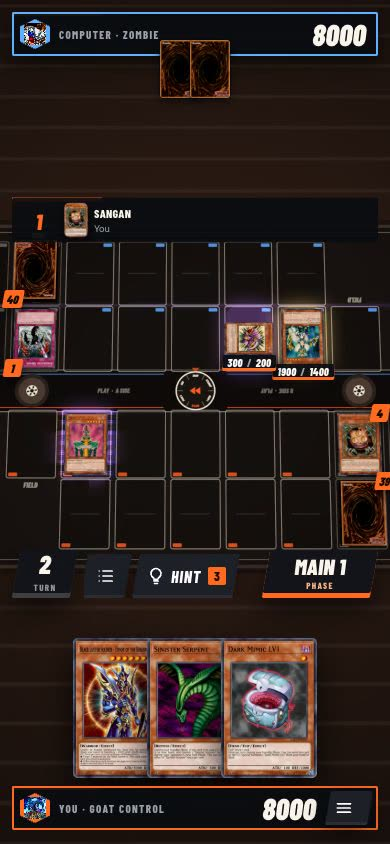
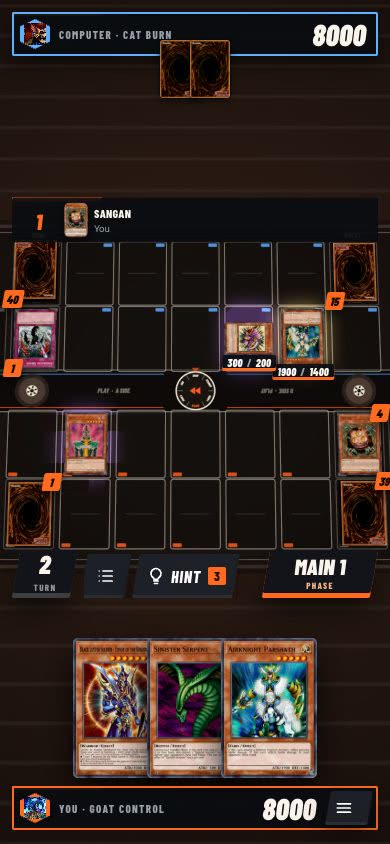
Rewind: Extra Deck under the Field zone, tapes removed

diff --git a/js/boards.js b/js/boards.js
@@ -11,7 +11,7 @@
 
    Boards: arena (Arena Lights), rewind (Rewind), rune (Runestone). Pick with ?mat=<id> or Settings (lrplay:set mat). */
 import * as THREE from '../vendor/three.module.min.js';
-import { ICONS } from './icons.js?v=164';
+import { ICONS } from './icons.js?v=165';
 
 const B = (x, y, z = 0) => new THREE.Vector3(x, z, -y);
 const CW = 0.6, CH = 0.875, ZW = CW + 0.08, ZH = CH + 0.08;
@@ -28,8 +28,9 @@ const grid = (lane, piles) => { const P = 0.76, M = -(lane + CH / 2), S = M - (C
 const LAYOUTS = {
   // Arena Lights: a narrow lane; Field and Extra on the left, GY and Deck on the right, Banished beside the GY (today's places)
   arc: grid(0.2, { fz: [-3, 'M'], extra: [-3, 'S'], gy: [3, 'M'], deck: [3, 'S'], ban: [4, 'M'] }),
-  // Rewind: a wide center lane for the dial and reels; the Field zone alone on the left, every pile in a 2x2 rack on the right
-  rack: grid(0.32, { fz: [-3, 'M'], gy: [3, 'M'], deck: [3, 'S'], ban: [4, 'M'], extra: [4, 'S'] }),
+  // Rewind: a wide center lane for the dial and reels; Field and Extra on the left, GY and Deck on the right, Banished beside the GY
+  // (Zack, 2026-11-26: the Extra Deck "needs to be under field spell")
+  rack: grid(0.32, { fz: [-3, 'M'], extra: [-3, 'S'], gy: [3, 'M'], deck: [3, 'S'], ban: [4, 'M'] }),
   // Runestone: the rift between the fields; Field and Extra on the left, GY and Deck on the right, Banished beside the GY
   hex: grid(0.3, { fz: [-3, 'M'], extra: [-3, 'S'], gy: [3, 'M'], deck: [3, 'S'], ban: [4, 'M'] }),
 };
@@ -268,110 +269,6 @@ const t0 = k => k * 0.2;
 for (const [id, t] of Object.entries(THEMES)) MATS[id] = { name: t.name, desc: t.desc, layout: 'hex', bg: t.bg, light: t.light, under: t.under, theme: t, glow: t.glow, hot: t.hot };
 export const THEME_IDS = Object.keys(THEMES);
 
-/* ---------------------------------------------------------------- Rewind's surroundings (Zack, 2026-11-26: "let me see some other versions of the design
-   around the board but leave the board the same"). The board, dial and reels stay; the world around them changes. Mock-ups: ?rw=den|neon|hifi|video
-   (none is today's: the warm floor with rewind marks and stacked tapes). Each world can answer the duel through b.wfx (kind, color, side). */
-const cvs = (w, h) => { const c = document.createElement('canvas'); c.width = w; c.height = h; return [c, c.getContext('2d')]; };
-const ctex = c => { const t = new THREE.CanvasTexture(c); t.colorSpace = THREE.SRGBColorSpace; t.anisotropy = 8; return t; };
-const flash = (b, m, peak, ms) => { m.visible = true; return b.T.tween(ms, k => { m.material.opacity = peak * (k < 0.15 ? k / 0.15 : 1 - (k - 0.15) / 0.85); }).then(() => { m.material.opacity = 0; m.visible = false; }); };
-const upright = (b, w, h, map, x, y, z, o = {}) => { const m = new THREE.Mesh(new THREE.PlaneGeometry(w, h), new THREE.MeshBasicMaterial(Object.assign({ map, transparent: true, depthWrite: false }, o))); m.position.copy(B(x, y, z)); m.lookAt(b.T.camera.position.x, m.position.y + (b.T.camera.position.y - m.position.y) * 0.25, b.T.camera.position.z); b.root.add(m); return m; };
-const rewindMark = (g, cx, cy, s, fill) => { g.fillStyle = fill; for (const dx of [-s * 0.55, s * 0.35]) { g.beginPath(); g.moveTo(cx + dx - s * 0.5, cy); g.lineTo(cx + dx + s * 0.5, cy - s * 0.55); g.lineTo(cx + dx + s * 0.5, cy + s * 0.55); g.closePath(); g.fill(); } };
-
-const REWIND_WORLDS = {
-  // a 90s den: plank floor, a rug under the board, a CRT on the far right that flashes on big plays, a tape stack on the left
-  den: {
-    floor(P, g, R) {
-      g.fillStyle = '#25170e'; g.fillRect(0, 0, P.c.width, P.c.height);
-      for (let y = -14; y < 18; y += 0.55) { g.fillStyle = `rgb(${44 + R() * 16},${28 + R() * 10},${17 + R() * 6})`; g.fillRect(0, P.Y(y + 0.55), P.c.width, P.U(0.55)); g.fillStyle = 'rgba(0,0,0,.45)'; g.fillRect(0, P.Y(y + 0.55), P.c.width, 1.5); for (let x = -20 + R() * 3; x < 20; x += 2.5 + R() * 3) g.fillRect(P.X(x), P.Y(y + 0.55), 1.5, P.U(0.55)); }
-      g.strokeStyle = 'rgba(255,220,180,.05)'; for (let k = 0; k < 260; k++) { const x = (R() - 0.5) * 40, y = (R() - 0.5) * 32; P.line([[x, y], [x + 1 + R() * 2, y + (R() - 0.5) * 0.05]], 0.012); }
-      // the rug: bands round a warm field
-      const band = (w, h, c) => { P.rr(0, 0.15, w, h, 0.05); g.fillStyle = c; g.fill(); };
-      band(10.4, 7.2, '#7a3218'); band(10.0, 6.8, '#d9c3a0'); band(9.8, 6.6, '#4a2416'); band(9.3, 6.1, '#b4532a'); band(9.1, 5.9, '#3a1d13');
-      g.strokeStyle = 'rgba(217,195,160,.14)'; for (let x = -4.4; x <= 4.4; x += 0.55) for (const y of [-2.8, 3.1]) { g.beginPath(); g.moveTo(P.X(x), P.Y(y + 0.15)); g.lineTo(P.X(x + 0.22), P.Y(y)); g.lineTo(P.X(x), P.Y(y - 0.15)); g.lineTo(P.X(x - 0.22), P.Y(y)); g.closePath(); g.lineWidth = 2; g.stroke(); }
-      radial(P, g, 0, 0.5, 9, 'rgba(255,170,90,.16)');
-    },
-    props(b, SW, SH) {
-      const R = rnd(9), cols = [0x2b211c, 0x332822, 0x261d18];
-      for (let n = 0; n < 5; n++) { const t = new THREE.Mesh(new THREE.BoxGeometry(0.95, 0.13, 0.55), [0, 1, 2, 3, 4, 5].map(f => f === 4 || f === 5 ? new THREE.MeshLambertMaterial({ map: b.tapeTex(n) }) : new THREE.MeshLambertMaterial({ color: cols[n % 3] }))); t.position.copy(B(-1.1, SH / 2 + 0.95, 0.065 + n * 0.135)); t.rotation.y = (R() - 0.5) * 0.3; b.root.add(t); }
-      // the CRT: a chunky set with a blue PLAY screen, glowing on the floor in front of it
-      const x = -2.5, y = SH / 2 + 1.05, tv = new THREE.Mesh(new THREE.BoxGeometry(1.15, 0.9, 0.9), new THREE.MeshLambertMaterial({ color: 0x2e2824 })); tv.position.copy(B(x, y, 0.45)); tv.rotation.y = -0.15; b.root.add(tv);
-      const [c, g] = cvs(320, 240); g.fillStyle = '#1b38b8'; g.fillRect(0, 0, 320, 240); g.fillStyle = '#e8eeff'; g.font = '700 44px "Atkinson Hyperlegible", sans-serif'; g.fillText('PLAY', 30, 70); g.beginPath(); g.moveTo(150, 36); g.lineTo(186, 54); g.lineTo(150, 72); g.closePath(); g.fill(); g.font = '700 24px "Atkinson Hyperlegible", sans-serif'; g.fillText('SP  0:42:10', 30, 210); for (let yy = 0; yy < 240; yy += 4) { g.fillStyle = 'rgba(0,0,0,.18)'; g.fillRect(0, yy, 320, 2); }
-      const scr = upright(b, 0.82, 0.62, ctex(c), x + 0.05, y - 0.46, 0.47); const fl = upright(b, 0.82, 0.62, null, x + 0.05, y - 0.47, 0.47, { color: 0xffffff, opacity: 0, blending: THREE.AdditiveBlending }); fl.visible = false; void scr;
-      const pool = new THREE.Mesh(new THREE.PlaneGeometry(2.2, 1.6), new THREE.MeshBasicMaterial({ map: glowTex(256, 192, 60, 90), color: 0x3a6bff, transparent: true, opacity: 0.35, blending: THREE.AdditiveBlending, depthWrite: false })); pool.rotation.x = -Math.PI / 2; pool.position.copy(B(x, y - 0.95, 0.003)); b.root.add(pool);
-      b.wfx.push(kind => { if (kind === 'big' || kind === 'hit') flash(b, fl, 0.8, 500); });
-    } },
-  // synthwave: a neon grid floor, two neon tubes round the board, rewind signs that flicker on big plays
-  neon: {
-    floor(P, g, R) {
-      g.fillStyle = '#0a0612'; g.fillRect(0, 0, P.c.width, P.c.height);
-      const sky = g.createLinearGradient(0, P.Y(18), 0, P.Y(4)); sky.addColorStop(0, 'rgba(255,60,170,.35)'); sky.addColorStop(1, 'rgba(255,60,170,0)'); g.fillStyle = sky; g.fillRect(0, 0, P.c.width, P.c.height);
-      g.save(); g.shadowBlur = 8; g.shadowColor = '#3cdcff'; g.strokeStyle = 'rgba(60,220,255,.55)'; for (let x = -20; x <= 20; x += 1) P.line([[x, -14], [x, 18]], 0.03);
-      g.shadowColor = '#ff3caa'; g.strokeStyle = 'rgba(255,60,170,.55)'; for (let y = -14; y <= 18; y += 1) P.line([[-20, y], [20, y]], 0.03); g.restore();
-      const rg = g.createRadialGradient(P.X(0), P.Y(0.2), P.U(3.5), P.X(0), P.Y(0.2), P.U(9)); rg.addColorStop(0, 'rgba(10,6,18,.92)'); rg.addColorStop(1, 'rgba(10,6,18,0)'); g.fillStyle = rg; g.fillRect(0, 0, P.c.width, P.c.height);
-    },
-    props(b, SW, SH) {
-      const tubes = [];
-      for (const [off, col] of [[0.26, 0xff3caa], [0.44, 0x3cdcff]]) { const w = SW + 2 * off, h = SH + 2 * off, mat = new THREE.MeshBasicMaterial({ color: col, transparent: true, opacity: 0.95 });
-        for (const [sx, sz, x, y] of [[w, 0.035, 0, h / 2], [w, 0.035, 0, -h / 2], [0.035, h, w / 2, 0], [0.035, h, -w / 2, 0]]) { const m = new THREE.Mesh(new THREE.BoxGeometry(sx, 0.035, sz), mat); m.position.copy(B(x, y, 0.02)); b.root.add(m); }
-        const glow = new THREE.Mesh(new THREE.PlaneGeometry(w + 0.5, h + 0.5), new THREE.MeshBasicMaterial({ map: b._rim || (b._rim = (() => { const [c, g] = cvs(512, 340); g.shadowColor = '#fff'; g.shadowBlur = 24; g.strokeStyle = '#fff'; g.lineWidth = 6; g.strokeRect(26, 26, 460, 288); g.strokeRect(26, 26, 460, 288); return new THREE.CanvasTexture(c); })()), color: col, transparent: true, opacity: 0.5, blending: THREE.AdditiveBlending, depthWrite: false }));
-        glow.rotation.x = -Math.PI / 2; glow.position.copy(B(0, 0, 0.001)); b.root.add(glow); tubes.push(mat, glow.material); }
-      const [c, g] = cvs(256, 128); g.shadowColor = '#ff3caa'; g.shadowBlur = 16; g.strokeStyle = '#ffb0de'; g.lineWidth = 7; g.lineJoin = 'round';
-      for (const dx of [-36, 30]) { g.beginPath(); g.moveTo(128 + dx - 34, 64); g.lineTo(128 + dx + 34, 26); g.lineTo(128 + dx + 34, 102); g.closePath(); g.stroke(); g.stroke(); }
-      const t = ctex(c), signs = [-1, 1].map(sx => upright(b, 1.5, 0.75, t, sx * (SW / 2 + 0.95), SH / 2 + 0.55, 0.7, { blending: THREE.AdditiveBlending }));
-      b.wfx.push(kind => { if (kind !== 'big' && kind !== 'hit') return; const ms = tubes.concat(signs.map(s => s.material)), o0 = ms.map(m => m.opacity);
-        b.T.tween(520, k => { const on = Math.floor(k * 9) % 2 ? 0.35 : 1; ms.forEach((m, i) => { m.opacity = o0[i] * (k > 0.85 ? 1 : on); }); }).then(() => ms.forEach((m, i) => { m.opacity = o0[i]; })); });
-    } },
-  // the hi-fi: brushed metal, a speaker each side that thumps on summons, VU meters that jump on plays and hits
-  hifi: {
-    floor(P, g, R) {
-      g.fillStyle = '#17181c'; g.fillRect(0, 0, P.c.width, P.c.height);
-      for (let k = 0; k < 2600; k++) { const y = (R() - 0.5) * 32 + 2, x = (R() - 0.5) * 40; g.fillStyle = `rgba(255,255,255,${0.015 + R() * 0.035})`; g.fillRect(P.X(x), P.Y(y), P.U(1 + R() * 5), 1); }
-      g.strokeStyle = 'rgba(0,0,0,.6)'; g.lineWidth = 3; P.rr(0, 0.1, 13.6, 7.2, 0.25); g.stroke(); g.strokeStyle = 'rgba(255,255,255,.07)'; g.lineWidth = 2; P.rr(0, 0.1, 13.8, 7.4, 0.28); g.stroke();
-      g.fillStyle = 'rgba(255,255,255,.3)'; for (const [x, y] of [[-6.6, 3.5], [6.6, 3.5], [-6.6, -3.3], [6.6, -3.3]]) { g.beginPath(); g.arc(P.X(x), P.Y(y), P.U(0.06), 0, 7); g.fill(); }
-      g.fillStyle = 'rgba(239,227,207,.45)'; g.font = `italic 800 ${P.U(0.16)}px "Barlow Condensed", sans-serif`; g.textAlign = 'center'; g.fillText('AUTO-REVERSE   ·   2-WAY STEREO   ·   LEARN RETRO', P.X(0), P.Y(3.32));
-      rewindMark(g, P.X(-3.4), P.Y(3.38), P.U(0.16), '#ff5b1f');
-    },
-    props(b, SW, SH) {
-      const [c, g] = cvs(512, 512), m = 256; const rg = g.createRadialGradient(m, m, 30, m, m, 250); rg.addColorStop(0, '#6a6a74'); rg.addColorStop(0.18, '#2a2a30'); rg.addColorStop(0.2, '#55555e'); rg.addColorStop(0.85, '#34343a'); rg.addColorStop(0.88, '#0c0c0e'); rg.addColorStop(0.93, '#9a9aa4'); rg.addColorStop(1, '#4a4a52'); g.fillStyle = rg; g.beginPath(); g.arc(m, m, 254, 0, 7); g.fill();
-      g.strokeStyle = 'rgba(255,255,255,.1)'; for (let r = 70; r < 210; r += 14) { g.beginPath(); g.arc(m, m, r, 0, 7); g.lineWidth = 2; g.stroke(); }
-      const t = ctex(c), cones = [];
-      for (const sx of [-1, 1]) { const x = sx * (SW / 2 + 1.75);
-        const box = new THREE.Mesh(new THREE.BoxGeometry(2.9, 0.12, 2.9), new THREE.MeshLambertMaterial({ color: 0x24242a })); box.position.copy(B(x, 0.1, 0.06)); b.root.add(box);
-        const cone = new THREE.Mesh(new THREE.CircleGeometry(1.25, 64), new THREE.MeshBasicMaterial({ map: t })); cone.rotation.x = -Math.PI / 2; cone.position.copy(B(x, 0.1, 0.122)); b.root.add(cone); cones.push(cone);
-        const tw = new THREE.Mesh(new THREE.CircleGeometry(0.3, 32), new THREE.MeshBasicMaterial({ map: t })); tw.rotation.x = -Math.PI / 2; tw.position.copy(B(x, 1.9, 0.123)); b.root.add(tw); }
-      // two VU meters on the far rail
-      const bars = [];
-      for (const sx of [-1, 1]) { const cx = sx * 1.35, y = SH / 2 + 0.55;
-        const back = new THREE.Mesh(new THREE.PlaneGeometry(2.2, 0.5), new THREE.MeshBasicMaterial({ color: 0x0a0a0c })); back.rotation.x = -Math.PI / 2; back.position.copy(B(cx, y, 0.002)); b.root.add(back);
-        for (let k = 0; k < 14; k++) { const col = k < 9 ? 0x47d47a : k < 12 ? 0xffd86a : 0xff4a3a; const bar = new THREE.Mesh(new THREE.PlaneGeometry(0.1, 0.36), new THREE.MeshBasicMaterial({ color: col, transparent: true, opacity: 0.18 })); bar.rotation.x = -Math.PI / 2; bar.position.copy(B(cx - 0.95 + k * 0.146, y, 0.003)); b.root.add(bar); bars.push({ bar, k }); } }
-      const level = (to, ms) => b.T.tween(ms, e => { const lv = to * Math.sin(Math.PI * Math.min(1, e * 1.6)) * (1 - e * 0.3); for (const { bar, k } of bars) bar.material.opacity = k / 14 < lv ? 1 : 0.18; }).then(() => { for (const { bar } of bars) bar.material.opacity = 0.18; });
-      const thump = (amt, ms) => { for (const c of cones) b.T.tween(ms, e => { const s = 1 + amt * Math.sin(Math.PI * e); c.scale.set(s, s, 1); }).then(() => c.scale.set(1, 1, 1)); };
-      b.wfx.push(kind => { if (kind === 'summon') { thump(0.05, 300); level(0.6, 700); } else if (kind === 'big') { thump(0.1, 420); level(1, 1000); } else if (kind === 'hit') { thump(0.08, 360); level(0.95, 900); } else if (kind === 'attack') level(0.45, 500); });
-    } },
-  // a 90s video store: patterned carpet, a long shelf of tapes on the far side under a lit sign
-  video: {
-    floor(P, g, R) {
-      g.fillStyle = '#121735'; g.fillRect(0, 0, P.c.width, P.c.height);
-      const cols = ['rgba(47,211,197,.6)', 'rgba(232,63,158,.6)', 'rgba(247,201,59,.6)', 'rgba(140,120,255,.5)'];
-      for (let k = 0; k < 1300; k++) { const x = (R() - 0.5) * 40, y = (R() - 0.5) * 32 + 2, s = 0.12 + R() * 0.22, c = cols[k % 4], kind = k % 3; g.strokeStyle = c; g.fillStyle = c; g.lineWidth = P.U(0.035);
-        if (kind === 0) { g.beginPath(); g.moveTo(P.X(x), P.Y(y + s)); g.lineTo(P.X(x + s), P.Y(y - s * 0.6)); g.lineTo(P.X(x - s), P.Y(y - s * 0.6)); g.closePath(); g.fill(); }
-        else if (kind === 1) { g.beginPath(); for (let t = 0; t <= 1; t += 0.1) { const px = x + (t - 0.5) * s * 3, py = y + Math.sin(t * 9) * s * 0.4; t ? g.lineTo(P.X(px), P.Y(py)) : g.moveTo(P.X(px), P.Y(py)); } g.stroke(); }
-        else { g.beginPath(); g.arc(P.X(x), P.Y(y), P.U(s * 0.6), 0, 7); g.stroke(); } }
-      const rg = g.createRadialGradient(P.X(0), P.Y(0.2), P.U(3.2), P.X(0), P.Y(0.2), P.U(7)); rg.addColorStop(0, 'rgba(18,23,53,.85)'); rg.addColorStop(1, 'rgba(18,23,53,0)'); g.fillStyle = rg; g.fillRect(0, 0, P.c.width, P.c.height);
-    },
-    props(b, SW, SH) {
-      const [c, g] = cvs(2048, 300), R = rnd(31), pal = ['#e83f9e', '#2fd3c5', '#f7c93b', '#8c78ff', '#ff5b1f', '#efe3cf', '#47d47a'];
-      g.fillStyle = '#2a1d14'; g.fillRect(0, 0, 2048, 300);
-      for (let row = 0; row < 3; row++) { let x = 10; while (x < 2040) { const w = 26 + R() * 10; g.fillStyle = pal[Math.floor(R() * pal.length)]; g.fillRect(x, 12 + row * 96, w, 80); g.fillStyle = 'rgba(255,255,255,.85)'; g.fillRect(x + 4, 30 + row * 96, w - 8, 16); g.fillStyle = 'rgba(0,0,0,.25)'; g.fillRect(x + w - 3, 12 + row * 96, 3, 80); x += w + 3; } g.fillStyle = '#1a120c'; g.fillRect(0, 92 + row * 96, 2048, 8); }
-      const shelf = new THREE.Mesh(new THREE.BoxGeometry(SW + 1.6, 1.0, 0.45), [0, 1, 2, 3, 4, 5].map(f => f === 4 ? new THREE.MeshLambertMaterial({ map: ctex(c) }) : new THREE.MeshLambertMaterial({ color: 0x2a1d14 })));
-      shelf.scale.set(1, 0.8, 1); shelf.position.copy(B(0, SH / 2 + 1.9, 0.4)); b.root.add(shelf);
-      const [c2, g2] = cvs(1024, 120); g2.font = 'italic 900 84px "Barlow Condensed", sans-serif'; g2.textAlign = 'center'; g2.textBaseline = 'middle'; g2.shadowColor = '#ff5b1f'; g2.shadowBlur = 22; g2.fillStyle = '#ffd7b0'; g2.fillText('LEARN RETRO VIDEO', 512, 62); g2.fillText('LEARN RETRO VIDEO', 512, 62);
-      const sign = upright(b, 3.6, 0.42, ctex(c2), 0, SH / 2 + 1.75, 1.05, { blending: THREE.AdditiveBlending, opacity: 0.85 });
-      const sx = (SW / 2 + 0.9); for (const s of [-1, 1]) { const st = new THREE.Mesh(new THREE.BoxGeometry(0.7, 0.75, 0.5), [0, 1, 2, 3, 4, 5].map(f => f === 4 || f === 5 ? new THREE.MeshLambertMaterial({ map: ctex(c) }) : new THREE.MeshLambertMaterial({ color: 0x2a1d14 }))); st.position.copy(B(s * sx, SH / 2 + 0.3, 0.375)); st.rotation.y = -s * 0.5; b.root.add(st); }
-      b.wfx.push(kind => { if (kind === 'big' || kind === 'hit') b.T.tween(600, k => { sign.material.opacity = 0.85 + 0.15 * Math.sin(Math.PI * k) * (Math.floor(k * 10) % 2 ? 0.2 : 1); }).then(() => { sign.material.opacity = 0.85; }); });
-    } },
-};
-export const RW = (() => { const v = new URLSearchParams(location.search).get('rw'); return REWIND_WORLDS[v] ? v : 'tape'; })();
 
 /* ---------------------------------------------------------------- the board */
 export class Board {
@@ -405,7 +302,6 @@ export class Board {
       g.strokeStyle = 'rgba(255,106,31,.10)'; g.beginPath(); g.arc(P.X(0), P.Y(0), P.U(6.2), Math.PI * 0.08, Math.PI * 0.92); g.lineWidth = P.U(0.05); g.stroke();
       g.strokeStyle = 'rgba(90,168,255,.10)'; g.beginPath(); g.arc(P.X(0), P.Y(0), P.U(6.2), Math.PI * 1.08, Math.PI * 1.92); g.stroke();
       g.strokeStyle = 'rgba(255,255,255,.07)'; P.line([[-20, 0], [20, 0]], 0.03);
-    } else if (id === 'rewind' && RW !== 'tape') { REWIND_WORLDS[RW].floor(P, g, rnd(5));
     } else if (id === 'rewind') {
       const rg = g.createRadialGradient(P.X(0), P.Y(0.3), 0, P.X(0), P.Y(0.3), P.U(9)); rg.addColorStop(0, 'rgba(90,52,34,.5)'); rg.addColorStop(1, 'rgba(90,52,34,0)'); g.fillStyle = rg; g.fillRect(0, 0, P.c.width, P.c.height);
       // big rewind marks printed on the floor, and faint stripes like a tape label
@@ -691,16 +587,10 @@ export class Board {
       this.phaseMark = new THREE.Mesh(new THREE.PlaneGeometry(0.84, 0.4), new THREE.MeshBasicMaterial({ map: glowTex(256, 132, 24, 10), color: YOU, transparent: true, opacity: 0, blending: THREE.AdditiveBlending, depthWrite: false }));
       this.phaseMark.rotation.x = -Math.PI / 2; this.phaseMark.position.copy(B(this.phaseX[0], 0, 0.0018)); this.phaseMark.visible = false; this.root.add(this.phaseMark);
     } else if (this.id === 'rewind') {
-      // the dial in the tape window (turns with the phase, spins back on a new turn), two reels, and stacked tapes on the far corners
+      // the dial in the tape window (turns with the phase, spins back on a new turn) and two reels (the stacked tapes were removed: Zack, 2026-11-26)
       this.dial = new THREE.Mesh(new THREE.CircleGeometry(0.29, 64), new THREE.MeshBasicMaterial({ map: this.dialTex(), transparent: true }));
       this.dial.rotation.x = -Math.PI / 2; this.dial.position.copy(B(0, 0, 0.0016)); this.dialBase = 0; this.root.add(this.dial);
       this.reels = [-2.3, 2.3].map(x => { const r = new THREE.Mesh(new THREE.CircleGeometry(0.25, 48), new THREE.MeshBasicMaterial({ map: this.reelTex(), transparent: true })); r.rotation.x = -Math.PI / 2; r.position.copy(B(x, 0, 0.0016)); this.root.add(r); return r; });
-      const R = rnd(9), cols = [0x2b211c, 0x332822, 0x261d18];
-      if (RW !== 'tape') REWIND_WORLDS[RW].props(this, SW, SH);
-      else for (const sx of [-1, 1]) for (let n = 0; n < 4; n++) {
-        const t = new THREE.Mesh(new THREE.BoxGeometry(0.95, 0.13, 0.55), [0, 1, 2, 3, 4, 5].map(f => f === 4 || f === 5 ? new THREE.MeshLambertMaterial({ map: this.tapeTex(n) }) : new THREE.MeshLambertMaterial({ color: cols[n % 3] })));
-        t.position.copy(B(sx * (SW / 2 + 0.7), SH / 2 - 0.2, 0.065 + n * 0.135)); t.rotation.y = (R() - 0.5) * 0.25; this.root.add(t);
-      }
       const glow = new THREE.Mesh(new THREE.PlaneGeometry(1.0, 1.0), new THREE.MeshBasicMaterial({ map: glowTex(256, 256, 60, 120), color: 0xff5b1f, transparent: true, opacity: 0, blending: THREE.AdditiveBlending, depthWrite: false }));
       glow.rotation.x = -Math.PI / 2; glow.position.copy(B(0, 0, 0.0014)); glow.visible = false; this.root.add(glow); this.flares[1].push(glow); this.flares[-1].push(glow);
     } else {
@@ -750,12 +640,6 @@ export class Board {
     g.fillStyle = '#2a1f1a'; g.beginPath(); g.arc(m, m, 124, 0, 7); g.fill(); g.fillStyle = '#4a3a31'; g.beginPath(); g.arc(m, m, 96, 0, 7); g.fill();
     g.fillStyle = '#efe3cf'; g.beginPath(); g.arc(m, m, 40, 0, 7); g.fill(); g.fillStyle = '#1a1411'; for (let k = 0; k < 6; k++) { const a = k * Math.PI / 3; g.save(); g.translate(m, m); g.rotate(a); g.fillRect(-6, -36, 12, 18); g.restore(); }
     g.fillStyle = '#1a1411'; g.beginPath(); g.arc(m, m, 14, 0, 7); g.fill();
-    const t = new THREE.CanvasTexture(c); t.colorSpace = THREE.SRGBColorSpace; return t;
-  }
-  tapeTex(n) {
-    const c = document.createElement('canvas'); c.width = 256; c.height = 40; const g = c.getContext('2d'); g.fillStyle = '#2b211c'; g.fillRect(0, 0, 256, 40);
-    g.fillStyle = '#efe3cf'; g.fillRect(20, 8, 216, 24); g.fillStyle = ['#ff5b1f', '#5aa8ff', '#47d47a', '#ffd86a'][n % 4]; g.fillRect(20, 8, 26, 24);
-    g.fillStyle = '#1a1411'; g.font = 'italic 800 18px "Barlow Condensed", sans-serif'; g.textBaseline = 'middle'; g.fillText(['DUELS VOL. 1', 'DUELS VOL. 2', 'TOP DECKS', 'FINALS'][n % 4], 54, 21);
     const t = new THREE.CanvasTexture(c); t.colorSpace = THREE.SRGBColorSpace; return t;
   }
   stoneRuneTex() {

diff --git a/js/game.js b/js/game.js
@@ -1,10 +1,10 @@
 /* Learn Retro Play: the game. Screens, the deck picker, and the duel: engine events (from js/worker.js) become animations on
  the 3D table (js/table.js) and the HUD; your choices go back to the engine. The engine decides every rule; this file only
  shows the duel and passes on what you pick. */
-import { Table } from './table.js?v=164';
-import * as S from './sfx.js?v=164';
-import * as FX from './fx.js?v=164';
-import { Board, layoutOf, matChoice } from './boards.js?v=164';
+import { Table } from './table.js?v=165';
+import * as S from './sfx.js?v=165';
+import * as FX from './fx.js?v=165';
+import { Board, layoutOf, matChoice } from './boards.js?v=165';
 
 const $ = s => document.querySelector(s), $$ = s => [...document.querySelectorAll(s)];
 const REDUCED = matchMedia('(prefers-reduced-motion: reduce)').matches;
@@ -157,7 +157,7 @@ const tileBg = id => TILE_ART.has(+id) ? `<div class="art" style="background-ima
 const artUrl = id => id == null ? 'img/back.webp' : typeof id === 'string' && TOKEN_ART[id] ? `img/${TOKEN_ART[id][0]}.webp` : `img/${id}.webp`;
 
 /* ---------- the duel host ---------- */
-const W = new Worker('js/worker.js?v=164');
+const W = new Worker('js/worker.js?v=165');
 let READY = null; const readyP = new Promise(r => { W.addEventListener('message', function h(e) { if (e.data.type === 'ready') { READY = e.data.formats; W.removeEventListener('message', h); r(); } }); });
 W.postMessage({ type: 'init' });
 W.onmessage = e => { const m = e.data; if (m.type === 'update') duelUpdate(m); else if (m.type === 'hint') showHint(m); else if (m.type === 'summary') { if (D) { D.summary = m.summary; if (D.over) { recordMatch(D.over, m.summary); renderReview(m.summary); } } } else if (m.type === 'reviewing') { const el = $('#resReview p.mute'); if (el) el.textContent = `Reviewing your duel… ${m.left} decisions left`; } else if (m.type === 'error') { console.error(m.message, m.stack); toast('Something went wrong in the engine: ' + m.message, 6000); } };

diff --git a/index.html b/index.html
@@ -16,9 +16,9 @@
 <meta name="apple-mobile-web-app-title" content="LR Play">
 <link rel="preconnect" href="https://fonts.googleapis.com"><link rel="preconnect" href="https://fonts.gstatic.com" crossorigin>
 <link href="https://fonts.googleapis.com/css2?family=Atkinson+Hyperlegible:wght@400;700&family=Atkinson+Hyperlegible+Next:wght@500;700;800&family=Barlow+Condensed:ital,wght@0,600;0,700;0,800;1,700;1,800;1,900&family=VT323&display=swap" rel="stylesheet">
-<link rel="stylesheet" href="css/game.css?v=164">
-<link rel="stylesheet" href="css/rewind.css?v=164">
-<link rel="stylesheet" href="css/mobile.css?v=164">
+<link rel="stylesheet" href="css/game.css?v=165">
+<link rel="stylesheet" href="css/rewind.css?v=165">
+<link rel="stylesheet" href="css/mobile.css?v=165">
 </head>
 <body>
 <svg width="0" height="0" style="position:absolute">
@@ -241,7 +241,7 @@
 <script src="data/tile-art.js"></script>
 <script src="data/box-mix.js"></script>
 <script src="data/tokens.js"></script>
-<script type="module" src="js/game.js?v=164"></script>
+<script type="module" src="js/game.js?v=165"></script>
 <div style="position:fixed;left:50%;top:0;transform:translateX(-50%);z-index:9999;padding:2px 10px;opacity:.85;background:#ff6a1f;color:#140a04;font:800 13px/1.4 Verdana,sans-serif;letter-spacing:.12em;border-radius:3px;pointer-events:none">PREVIEW</div>
 </body>
 </html>
